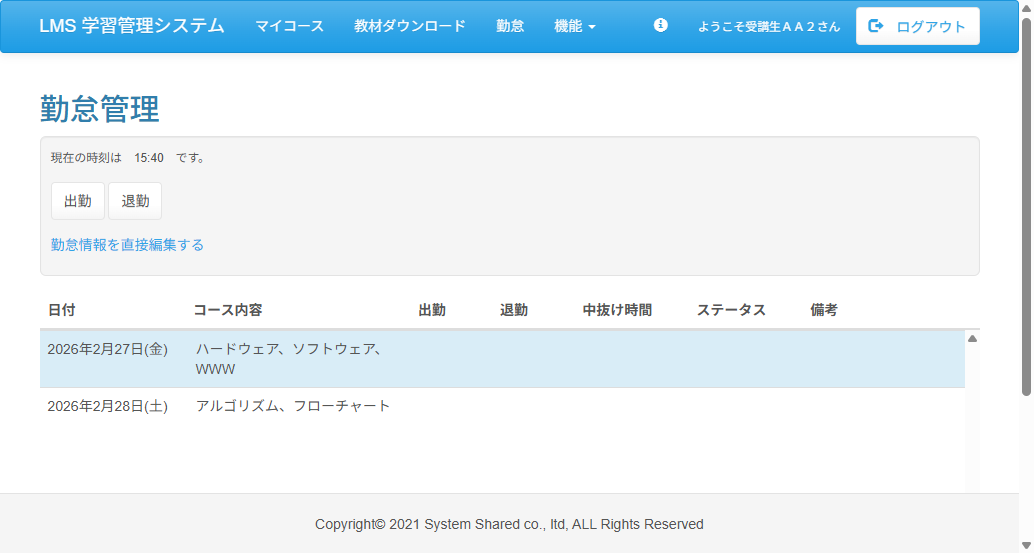
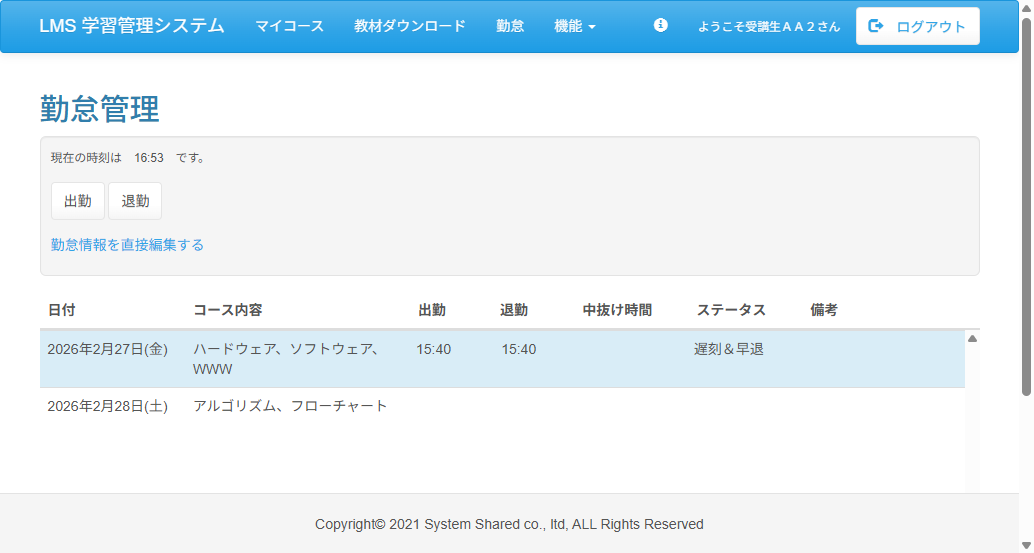
add:Case11.Java 受講生 勤怠直接編集 正常系テストコード作成
test04
webDrver.findElementのlinkTextを使用して「勤怠情報を直接編集する」リンクを押下する
ページロードタイムアウトが完了するまで３０秒間待機する

test05
WebElementを使用してidを取得する
selectByIndexメソッドを使用してドロップダウンリストに値を取得する
下に５００ピクセルスクロールする
更新ボタンを押下する
waitを使用して、アラートが表示されるまで１０秒間待機する
acceptを使用して「OK」ボタンを押下する
ページロードタイムアウトが完了するまで３０秒間待機する

diff --git a/test_code_creation_fujiwararyo/src/test/java/jp/co/sss/lms/ct/f04_attendance/Case11.java b/test_code_creation_fujiwararyo/src/test/java/jp/co/sss/lms/ct/f04_attendance/Case11.java
@@ -1,6 +1,9 @@
 package jp.co.sss.lms.ct.f04_attendance;
 
 import static jp.co.sss.lms.ct.util.WebDriverUtils.*;
+import static org.junit.jupiter.api.Assertions.*;
+
+import java.time.Duration;
 
 import org.junit.jupiter.api.AfterAll;
 import org.junit.jupiter.api.BeforeAll;
@@ -9,6 +12,12 @@ import org.junit.jupiter.api.MethodOrderer.OrderAnnotation;
 import org.junit.jupiter.api.Order;
 import org.junit.jupiter.api.Test;
 import org.junit.jupiter.api.TestMethodOrder;
+import org.openqa.selenium.Alert;
+import org.openqa.selenium.By;
+import org.openqa.selenium.WebElement;
+import org.openqa.selenium.support.ui.ExpectedConditions;
+import org.openqa.selenium.support.ui.Select;
+import org.openqa.selenium.support.ui.WebDriverWait;
 
 /**
  * 結合テスト 勤怠管理機能
@@ -35,35 +44,105 @@ public class Case11 {
 	@Order(1)
 	@DisplayName("テスト01 トップページURLでアクセス")
 	void test01() {
-		// TODO ここに追加
+
+		// 指定のURLの画面を開く
+		goTo("http://localhost:8080/lms");
+
+		// titleの取得とアサーション
+		assertEquals("ログイン | LMS", webDriver.getTitle());
+
+		getEvidence(new Object() {
+		});
 	}
 
 	@Test
 	@Order(2)
 	@DisplayName("テスト02 初回ログイン済みの受講生ユーザーでログイン")
 	void test02() {
-		// TODO ここに追加
+
+		WebElement loginId = webDriver.findElement(By.id("loginId"));
+		loginId.clear();
+		loginId.sendKeys("StudentAA02");
+
+		WebElement passElement = webDriver.findElement(By.id("password"));
+		passElement.clear();
+		passElement.sendKeys("StudentAA02A");
+
+		WebElement clickElement = webDriver.findElement(By.className("btn"));
+		clickElement.click();
+
+		pageLoadTimeout(30);
+
+		assertEquals("コース詳細 | LMS", webDriver.getTitle());
+
+		getEvidence(new Object() {
+		});
+
 	}
 
 	@Test
 	@Order(3)
 	@DisplayName("テスト03 上部メニューの「勤怠」リンクから勤怠管理画面に遷移")
 	void test03() {
-		// TODO ここに追加
+
+		webDriver.findElement(By.linkText("勤怠")).click();
+		pageLoadTimeout(30);
+		assertEquals("勤怠情報変更｜LMS", webDriver.getTitle());
+		getEvidence(new Object() {
+		});
 	}
 
 	@Test
 	@Order(4)
 	@DisplayName("テスト04 「勤怠情報を直接編集する」リンクから勤怠情報直接変更画面に遷移")
 	void test04() {
-		// TODO ここに追加
+
+		webDriver.findElement(By.linkText("勤怠情報を直接編集する")).click();
+		pageLoadTimeout(30);
+		assertEquals("勤怠情報変更｜LMS", webDriver.getTitle());
+		getEvidence(new Object() {
+		});
 	}
 
 	@Test
 	@Order(5)
 	@DisplayName("テスト05 すべての研修日程の勤怠情報を正しく更新し勤怠管理画面に遷移")
 	void test05() {
-		// TODO ここに追加
+
+		WebDriverWait wait = new WebDriverWait(webDriver, Duration.ofSeconds(10));
+
+		WebElement startHour = webDriver.findElement(By.id("startHour0"));
+
+		Select selectReason = new Select(startHour);
+		selectReason.selectByIndex(6);
+
+		WebElement stopHour = webDriver.findElement(By.id("startMinute0"));
+		Select selectReason2 = new Select(stopHour);
+		selectReason2.selectByIndex(1);
+
+		WebElement endHour = webDriver.findElement(By.id("endHour0"));
+
+		Select endReason = new Select(endHour);
+		endReason.selectByIndex(8);
+
+		WebElement endStopHour = webDriver.findElement(By.id("endMinute0"));
+
+		Select endStopHour2 = new Select(endStopHour);
+		endStopHour2.selectByIndex(1);
+		scrollTo("500");
+
+		webDriver.findElement(By.xpath("//input[@value='更新']")).click();
+		wait.until(ExpectedConditions.alertIsPresent());
+
+		// アラートに制御を切り替える
+		Alert alert = webDriver.switchTo().alert();
+
+		// OKボタン（確定）をクリック
+		alert.accept();
+		pageLoadTimeout(30);
+		assertEquals("勤怠情報変更｜LMS", webDriver.getTitle());
+		getEvidence(new Object() {
+		});
 	}
 
 }
